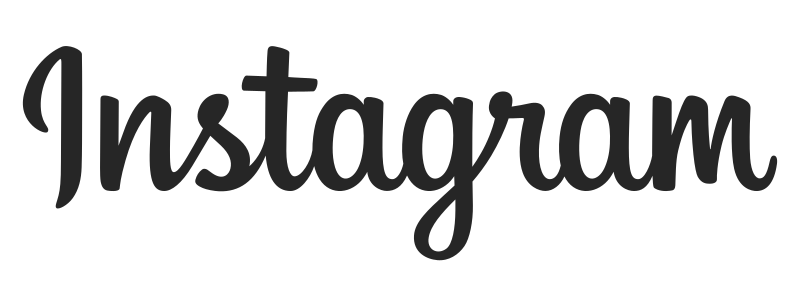
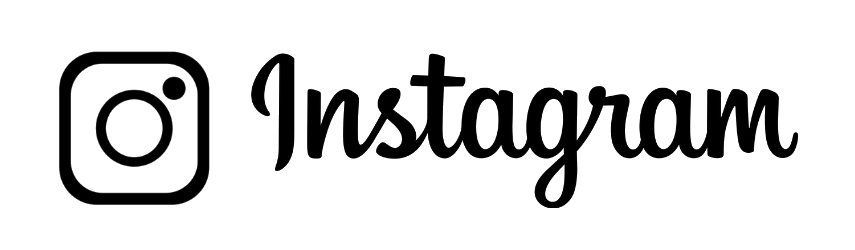
Loading bar addition

Changed region(s): [[0.0312, 0.14, 0.9688, 0.924]]

diff --git a/front/src/containers/Posts/Posts.js b/front/src/containers/Posts/Posts.js
@@ -1,10 +1,14 @@
 import React from 'react';
 import { AuthContext } from '../../hooks/contexts/AuthContext'
 import Post from './Post/Post'
-import classes from './Posts.module.css'
+import classesStyles from './Posts.module.css'
 import * as profileTypes from '../../hooks/componentTypes'
 import Pagination from '@material-ui/lab/Pagination';
 import axios from 'axios'
+import { withStyles } from '@material-ui/core/styles';
+import styles from './PostsStyles'
+
+
 class Posts extends React.Component {
     static contextType = AuthContext
     state = {
@@ -66,11 +70,23 @@ class Posts extends React.Component {
         }
 
     }
+    
     handleChange = (e, currentpageNumber) => {
         this.setState({ currentPage: currentpageNumber })
     }
     render() {
+        // const useStyles = makeStyles((theme) => ({
+        //     root: {
+        //         margin:'auto',
+        //         width:'50%'
+        //         // '& > *': {
+        //         //     marginTop: theme.spacing(2),
+        //         // },
+        //     },
+        // }));
+        // const classesStylesMaterialUi = useStyles();
         const { currentPage, todosPerPage } = this.state;
+        const {classes} = this.props
         const indexOfLastTodo = currentPage * todosPerPage;
         const indexOfFirstTodo = indexOfLastTodo - todosPerPage;
         const currentPosts = this.state.posts.slice(indexOfFirstTodo, indexOfLastTodo);
@@ -86,17 +102,18 @@ class Posts extends React.Component {
             <>
                 {this.state.posts.length === 0 ? checkPost : null}
                 {this.state.errorMessage}
-                <div className={classes.Posts}>
+                <div className={classesStyles.Posts}>
                     {fetchedPosts}
                 </div>
-                <Pagination
-                    count={Math.ceil(this.state.posts.length / this.state.todosPerPage)}
-                    page={this.state.currentPage}
-                    onChange={this.handleChange}
-                    color="secondary" />
+                    <Pagination className={classes.root}
+                        count={Math.ceil(this.state.posts.length / this.state.todosPerPage)}
+                        page={this.state.currentPage}
+                        onChange={this.handleChange}
+                        color="primary" size="large" />
+
             </>
         );
     }
 }
 
-export default Posts
+export default withStyles(styles)(Posts)

diff --git a/front/src/components/Navbar/Navbar.js b/front/src/components/Navbar/Navbar.js
@@ -1,5 +1,5 @@
 import React from 'react'
-import InstagramImageLogo from '../../assets/index.png'
+import InstagramImageLogo from '../../assets/instagram.png'
 // import classes from './Navbar.module.css'
 import { Avatar, AppBar, Toolbar, IconButton } from '@material-ui/core'
 import { Search } from '@material-ui/icons'
@@ -47,9 +47,9 @@ const Navbar = (props) => {
                         <img className={classes.cardMediaImage} src={InstagramImageLogo} alt='instagram' />
                     </CardMedia>
                     <div className={classes.search}>
-                        {/* <div className={classes.searchIcon}>
+                        <div className={classes.searchIcon}>
                             <Search />
-                        </div> */}
+                        </div>
                         <InputBase value={value} onChange={setValue} placeholder='Search...' classes={{
                             root: classes.inputRoot,
                             input: classes.inputInput

diff --git a/front/src/components/Profile/ProfileInfo/Username/Username.js b/front/src/components/Profile/ProfileInfo/Username/Username.js
@@ -2,9 +2,15 @@ import React from 'react'
 import { Button } from 'react-bootstrap'
 import classes from './Username.module.css'
 import * as profileType from '../../../../hooks/componentTypes'
+import TopBarProgress from "react-top-loading-bar";
+
 const Username = (props) => {
+
+    const [show, setShow] = React.useState(false)
     const onClickHandler = () => {
+
         props.history.push('/edit-user')
+        // setShow(false)
     }
     return (
         <div className={classes.Username}>
@@ -12,7 +18,9 @@ const Username = (props) => {
 
             {props.type === profileType.USER_PROFILE ?
                 <Button variant='primary'>Follow</Button>
-                : <Button onClick={onClickHandler} variant='outline-info'>Edit Profile</Button>}
+                : <Button onClick={onClickHandler} variant='outline-info'>Edit Profile</Button>
+            }
+            
         </div>
     )
 }

diff --git a/front/src/components/UserProfile/UserProfile.js b/front/src/components/UserProfile/UserProfile.js
@@ -5,6 +5,7 @@ import UserPosts from './UserPosts/UserPosts'
 import axios from 'axios'
 import * as profileTypes from '../../hooks/componentTypes'
 import classes from './UserProfile.module.css'
+import TopBarProgress from "react-top-loading-bar";
 export default class UserProfile extends React.Component {
     state = {
         username: '',
@@ -66,7 +67,11 @@ export default class UserProfile extends React.Component {
 
     render() {
         // console.log(this.state.posts)
-        return (<><div className={classes.UserProfile}>
+        return (<><TopBarProgress
+            progress={100}
+            height={3}
+            color="red" />
+        <div className={classes.UserProfile}>
             <UserProfilePic
                 avatar={this.state.userProfilePic}
                 type={profileTypes.USER_PROFILE} />

diff --git a/front/src/components/Navbar/Navbar.styles.js b/front/src/components/Navbar/Navbar.styles.js
@@ -3,6 +3,7 @@ const styles = (theme) => {
         appBar: {
             width: "100%",
             height: '64px',
+            marginTop:'10px'
 
         },
         toolbar: {

diff --git a/front/src/containers/Posts/PostsStyles.js b/front/src/containers/Posts/PostsStyles.js
@@ -1,0 +1,9 @@
+const styles = (theme)=>{
+    return {
+        root :{
+            width: '50%',
+            margin:'auto'
+        }
+    }
+}
+export default styles;
